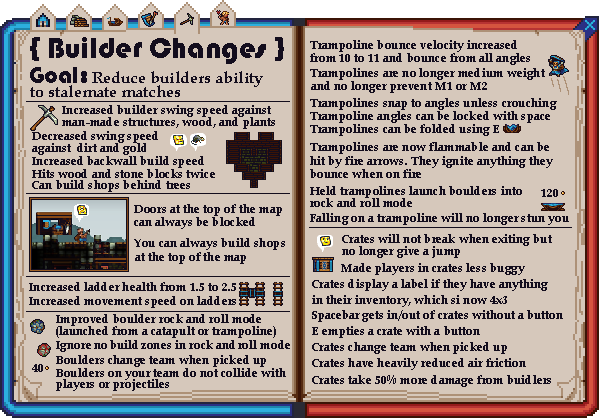
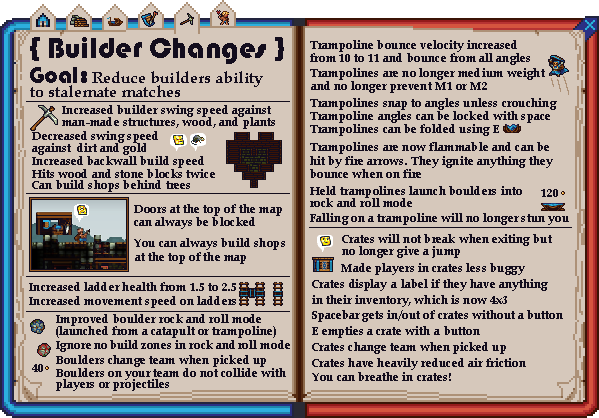
Crate Breathing
You can now breathe in crates

diff --git a/README.md b/README.md
@@ -417,6 +417,7 @@ DISCLAIMER: Developed without compatibility with other mods in mind, so there's 
 - Can be picked up by enemy players without having to overlap the crate
 - Changes team when picked up
 - Now gives the "medium weight" tag instead of "heavy weight" tag when carrying a lit keg
+- Can now breathe in crates
 - Can automatically pick up materials again
 	- No longer automatically picks up normal arrows
     - Automatically pickup ballista bolts and bomb bolts
